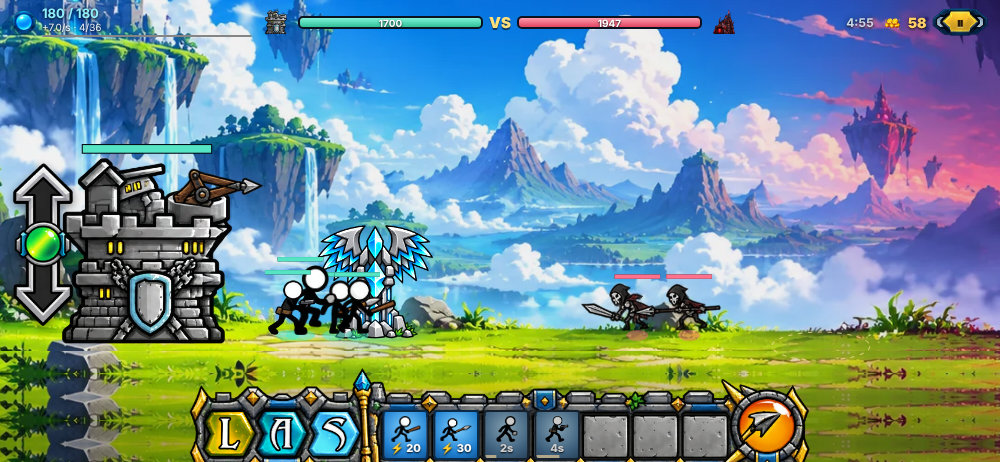
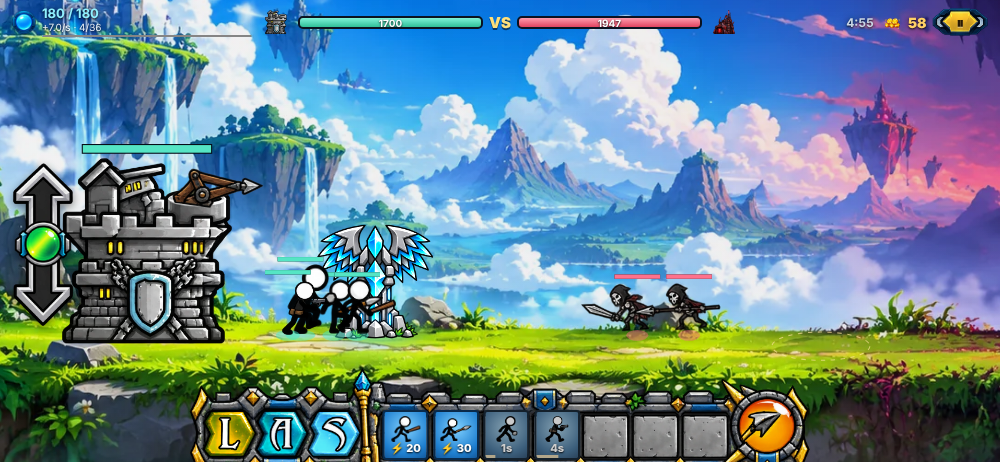
fix(siege): the backdrop's own ground under the troops; archer sized like the others

diff --git a/bug-hunter/src/siege/cartoon/view.ts b/bug-hunter/src/siege/cartoon/view.ts
@@ -226,24 +226,19 @@ export function render(ctx: CanvasRenderingContext2D, canvas: HTMLCanvasElement,
     // The picture spans the field (and moves with it, so distances read true), its sky colours carried on above it.
     const sw = FIELD + SCENE_FIT.pad * 2, sh = sw * scene.naturalHeight / scene.naturalWidth;
     const x0 = -SCENE_FIT.pad, top = ground - sh * SCENE_FIT.ground;
-    ctx.drawImage(scene, x0, top, sw, sh);
+    // When the view runs below the picture, its foreground (the part under the walking ground) is stretched down to
+    // the view's foot, so the picture itself fills it (never one stretched row, which reads as a blur).
+    const nh = scene.naturalHeight, gRow = nh * SCENE_FIT.ground;
+    if (top + sh < viewH) {
+      ctx.drawImage(scene, 0, 0, scene.naturalWidth, gRow, x0, top, sw, ground - top);
+      ctx.drawImage(scene, 0, gRow, scene.naturalWidth, nh - gRow, x0, ground, sw, viewH - ground + 1);
+    } else ctx.drawImage(scene, x0, top, sw, sh);
     if (top > 0) {
       const strip = skyOf(scene), fade = 60;
       ctx.drawImage(strip, 0, 0, 16, 1, x0, -1, sw, top + 2);
       for (let i = 0; i < 12; i++) { ctx.globalAlpha = 1 - (i + 0.5) / 12; ctx.drawImage(strip, 0, 0, 16, 1, x0, top + (i * fade) / 12, sw, fade / 12 + 0.5); }
       ctx.globalAlpha = 1;
     }
-    if (top + sh < viewH) ctx.drawImage(scene, 0, scene.naturalHeight - 1, scene.naturalWidth, 1, x0, top + sh - 1, sw, viewH - top - sh + 2);
-    // Below the walking ground the picture's foreground (big stone slabs, drawn huge at this scale) is covered with its
-    // own grass: the band just under the ground line repeated down (every other copy flipped, so no seam shows), a
-    // little darker the lower it goes, so only the bar and the troops read there.
-    const turf = ground + 14, nh = scene.naturalHeight, row = nh * SCENE_FIT.ground + nh * 0.012, band = nh * 0.035, bh = band * sh / nh;
-    for (let yy = turf, k = 0; yy < viewH + 2; yy += bh, k++) {
-      ctx.save(); ctx.translate(0, k % 2 ? yy + bh : yy); ctx.scale(1, k % 2 ? -1 : 1);
-      ctx.drawImage(scene, 0, row, scene.naturalWidth, band, x0, 0, sw, bh + 0.5); ctx.restore();
-    }
-    const fade = ctx.createLinearGradient(0, turf, 0, turf + 70); fade.addColorStop(0, '#00000000'); fade.addColorStop(1, '#00000052');
-    ctx.fillStyle = fade; ctx.fillRect(x0, turf, sw, viewH - turf + 4);
   } else {
     const [deck, low] = GROUND[actOf(s.world) - 1];
     const earth = ctx.createLinearGradient(0, ground - 10, 0, viewH); earth.addColorStop(0, deck); earth.addColorStop(1, low);

diff --git a/bug-hunter/src/siege/cartoon/model.ts b/bug-hunter/src/siege/cartoon/model.ts
@@ -68,10 +68,10 @@ export const UNITS: readonly Spec[] = [
   ] },
   // The archer's four forms (docs/cw2-reference.md): rock thrower, javelin thrower, archer with a bow, and the ninja
   // throwing shurikens; each throws its own sheet's projectile. The reference gives no prices.
-  { id: 2, cost: 30, hp: 80, damage: 18, speed: 33, range: 150, rate: 1.3, cooldown: 4, unlock: 1, infantry: true, shot: 'rock', spin: true, ...six('ally-archer-1', 155), forms: [
-    { price: 250, cost: 40, hp: 90, damage: 24, range: 175, shot: 'javelin', spin: false, ...six('ally-archer-2', 159) },
-    { price: 400, cost: 50, hp: 100, damage: 27, range: 200, shot: 'arrow', spin: false, ...six('ally-archer-3', 187) },
-    { price: 1500, cost: 120, hp: 150, damage: 32, speed: 50, range: 195, rate: 0.8, shot: 'shuriken', spin: true, ...six('ally-archer-4', 195) },
+  { id: 2, cost: 30, hp: 80, damage: 18, speed: 33, range: 150, rate: 1.3, cooldown: 4, unlock: 1, infantry: true, shot: 'rock', spin: true, ...six('ally-archer-1', 155, 0.75), forms: [
+    { price: 250, cost: 40, hp: 90, damage: 24, range: 175, shot: 'javelin', spin: false, ...six('ally-archer-2', 159, 0.75) },
+    { price: 400, cost: 50, hp: 100, damage: 27, range: 200, shot: 'arrow', spin: false, ...six('ally-archer-3', 187, 0.75) },
+    { price: 1500, cost: 120, hp: 150, damage: 32, speed: 50, range: 195, rate: 0.8, shot: 'shuriken', spin: true, ...six('ally-archer-4', 195, 0.75) },
   ] },
   // The heavy armour swordsman's four forms (docs/cw2-reference.md): a knight with two swords, a bigger one with maces
   // for hands, the samurai who punches, and a bigger samurai. The reference gives no prices.

diff --git a/bug-hunter/src/version.ts b/bug-hunter/src/version.ts
@@ -4,7 +4,7 @@
  * This folder migration preserves the public game URL, saves and gameplay.
  * The build stamp changes automatically on each deployment.
  */
-export const GAME_VERSION = '1.15.4';
+export const GAME_VERSION = '1.15.5';
 
 declare const __GAME_BUILD__: { commit: string; built: string };
 /** Build stamp from the shared Vite configuration; safe outside Vite too. */

diff --git a/bug-hunter/CHANGELOG.md b/bug-hunter/CHANGELOG.md
@@ -4,6 +4,12 @@
 
 This changelog tracks game-version changes starting with v1.12.55. Earlier releases are not reconstructed here.
 
+## 1.15.5 - 2026-10-26
+
+### Fixed
+- Siege Cartoon: the ground below the troops shows the battlefield picture again (its grass, plants and stones) instead of a green blur; where the view runs below the picture, its foreground is stretched to the bottom rather than its last row.
+- The archer's four forms are drawn at three quarters, matching the other troops (its sheet is drawn bigger).
+
 ## 1.15.4 - 2026-10-26
 
 ### Changed / Fixed - Siege Cartoon's battlefield
